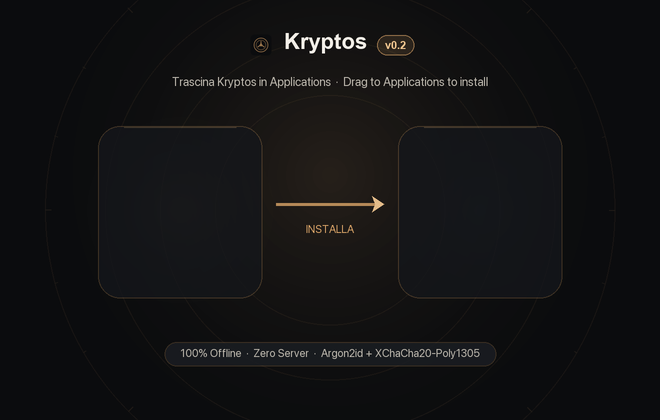
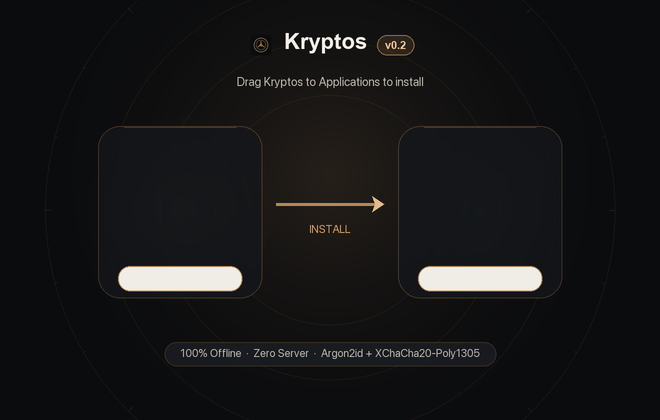
fix(installer): make macOS DMG English-only with high-contrast label pills

diff --git a/scripts/generate-installer-assets.py b/scripts/generate-installer-assets.py
@@ -197,6 +197,19 @@ def build_dmg_background() -> None:
             fill=(*GOLD_LIGHT, 55),
             width=1 * SCALE,
         )
+        # Bright white/ivory label pill behind Finder's black icon label text (y=274..285)
+        lbl_w, lbl_h = 124, 25
+        lx0 = (cx - lbl_w // 2) * SCALE
+        ly0 = 266 * SCALE
+        lx1 = (cx + lbl_w // 2) * SCALE
+        ly1 = (266 + lbl_h) * SCALE
+        draw.rounded_rectangle(
+            (lx0, ly0, lx1, ly1),
+            radius=(lbl_h // 2) * SCALE,
+            fill=(246, 243, 236, 248),
+            outline=(*GOLD, 210),
+            width=1 * SCALE,
+        )
 
     # Center arrow linking Kryptos.app -> Applications
     arrow_y = 204 * SCALE
@@ -267,13 +280,13 @@ def build_dmg_background() -> None:
         draw,
         330,
         74,
-        "Trascina Kryptos in Applications  ·  Drag to Applications to install",
+        "Drag Kryptos to Applications to install",
         sub_font,
         TEXT_MUTED,
     )
 
     # Small label under arrow
-    draw_centered_text(draw, 330, 222, "INSTALLA", hint_font, (*GOLD, 210))
+    draw_centered_text(draw, 330, 222, "INSTALL", hint_font, (*GOLD, 210))
 
     # Footer security badge safely inside both 660x400 and 660x420 heights
     draw_pill(
